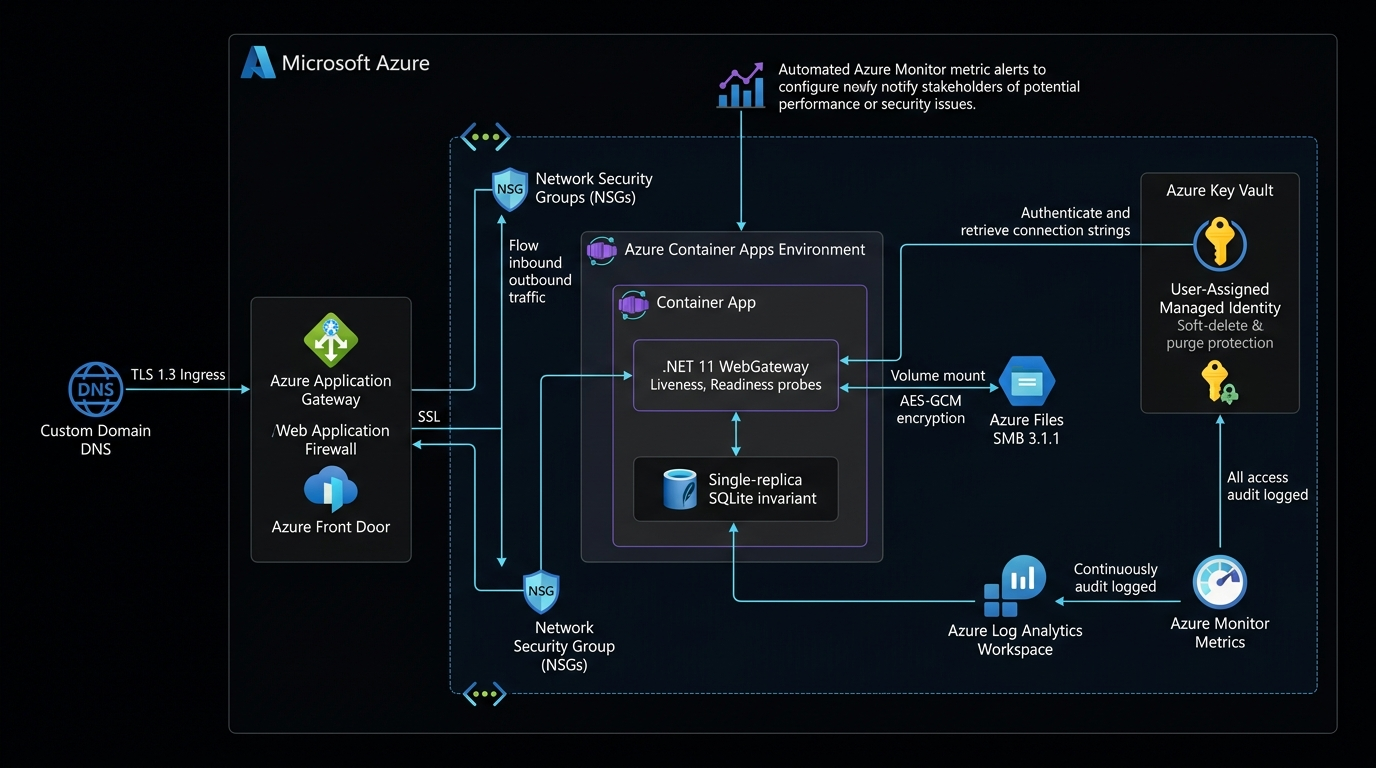
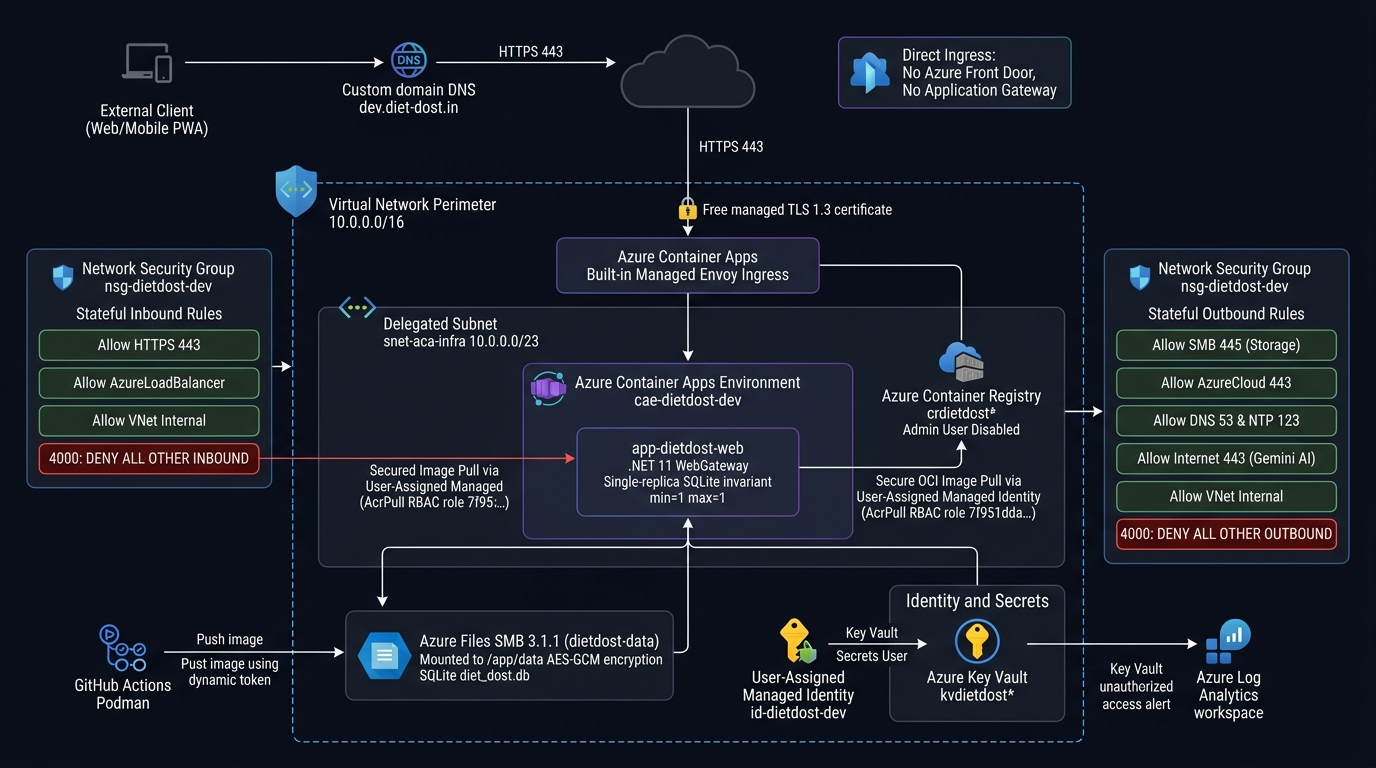
feat(infra): add zero-trust NSG outbound deny rules, clarify direct ACA ingress, and modernize pre-deployment setup

Changed region(s): [[0.0, 0.0312, 1.0, 0.9688], [0.8438, 0.2188, 0.9375, 0.25], [0.6875, 0.375, 0.7188, 0.4062]]

diff --git a/docs/adr/architecture/ADR-20261011-090-zero-trust-nsg-outbound-rules-acr-pull-and-ingress-architecture.md b/docs/adr/architecture/ADR-20261011-090-zero-trust-nsg-outbound-rules-acr-pull-and-ingress-architecture.md
@@ -1,0 +1,103 @@
+<!--
+  Copyright (c) 2026 diet-dost and/or its contributors.
+  Licensed under the "GNU Affero General Public License v3.0 only" and
+  the "Server Side Public License, v 1"; you may not use this file except
+  in compliance with, at your election, the "GNU Affero General Public
+  License v3.0 only" or the "Server Side Public License, v 1".
+-->
+
+# ADR-20261011-090: Azure Zero-Trust NSG Outbound Rules, Passwordless ACR Image Pull, and Direct ACA Ingress Architecture
+
+- **Status**: Accepted
+- **Date**: 2026-10-11
+- **Domain**: Architecture & Infrastructure Security
+- **Author**: Diet-Dost Solution Architecture Team
+- **Decision Makers**: `@nikunjbanker` (Sole Authority)
+- **Consulted**: Application, Infrastructure, and DevSecOps Teams
+- **Informed**: All Contributors, Autonomous AI Agents
+
+---
+
+## 1. Context and Problem Statement
+
+During an architecture and visual artifact audit of the Diet-Dost Azure cloud perimeter ([`docs/architecture/diagrams/azure_zero_trust_infra_architecture.jpg`](file:///c:/Users/nikunj.banker/source/repos/diet-dost/docs/architecture/diagrams/azure_zero_trust_infra_architecture.jpg) and [`infra/infra.bicep`](file:///c:/Users/nikunj.banker/source/repos/diet-dost/infra/infra.bicep)), several critical architectural clarifications and security hardening requirements were identified:
+
+1. **Permissive Outbound Fallthrough Risk in NSG**:
+   - The Network Security Group (`nsg-dietdost-dev`) defined explicit allow rules (priority 100-140) for Storage SMB (445), AzureCloud HTTPS (443), DNS (53), NTP (123), and Internet HTTPS (443), but **lacked an explicit catch-all `Deny` rule for outbound traffic**.
+   - In Azure NSG architecture, unlisted outbound traffic falls through to the Azure default rule `AllowInternetOutBound` (priority 65001), which permits all egress traffic across any arbitrary port (e.g. SSH 22, Telnet 23, SMTP 25, IRC 6667, reverse shells). This violated strict Zero-Trust defense-in-depth principles.
+2. **Architectural Hallucination in Visual Diagram (Front Door & Application Gateway)**:
+   - The previous visual diagram displayed Azure Front Door and Azure Application Gateway.
+   - In reality, Diet-Dost does **not** provision or utilize Azure Front Door or Application Gateway. External HTTPS traffic routes directly to the Azure Container Apps (ACA) built-in Envoy reverse proxy layer with free Azure Managed TLS 1.3 certificates terminating at the ACA boundary.
+3. **Ambiguity in Container Image Delivery Mechanics**:
+   - The image pull relationship between Azure Container Registry (ACR) and the Container App was not visually clear in the diagram, obscuring how the workload authenticates to ACR without admin credentials.
+4. **Pre-Deployment Script & Workflow Secret Alignment**:
+   - `scripts/setup-azure-pre-deployment.ps1` was setting `SUPER_ADMIN_EMAIL` and `REQUIRE_MOBILE_VERIFICATION` as plaintext repository variables (`vars`), whereas `.github/workflows/azure-app-deploy.yml` Step 10b strictly expects encrypted secrets (`secrets.`) per [ADR-077](file:///c:/Users/nikunj.banker/source/repos/diet-dost/docs/adr/security/ADR-20261010-077-secret-only-governance-for-superadmin-email-and-mobile-verification.md). This would have caused the deployed container to fail startup validation in production mode.
+   - Additionally, `azure-app-deploy.yml` Step 4c attempted to run ESLint with the obsolete `.eslintrc.js` configuration file.
+
+---
+
+## 2. Decision and Implementation
+
+### 2.1 Explicit Zero-Trust Catch-All Deny Rules in Bicep (`infra/infra.bicep`)
+Hardened the NSG configuration in [`infra/infra.bicep`](file:///c:/Users/nikunj.banker/source/repos/diet-dost/infra/infra.bicep) by adding explicit high-priority deny rules and VNet internal communication rules:
+- **Inbound Security Rules**:
+  - `100: Allow-HTTPS-Inbound` (TCP 443 from `*`)
+  - `110: Allow-AzureLoadBalancer-Inbound` (Health probes from `AzureLoadBalancer`)
+  - `120: Allow-VNet-Internal-Inbound` (Intra-VNet cluster communication within `VirtualNetwork`)
+  - **`4000: Deny-All-Other-Inbound`** (Explicit catch-all deny rule dropping all unauthorized inbound traffic)
+- **Outbound Security Rules**:
+  - `100: Allow-Storage-SMB-Outbound` (TCP 445 to `Storage` service tag for persistent SQLite mount)
+  - `110: Allow-AzureCloud-HTTPS-Outbound` (TCP 443 to `AzureCloud` service tag for Key Vault, ACR, Entra ID, Log Analytics)
+  - `120: Allow-DNS-Outbound` (Port 53 for DNS resolution)
+  - `130: Allow-NTP-Outbound` (UDP 123 for time synchronization)
+  - `140: Allow-Internet-HTTPS-Outbound` (TCP 443 to `Internet` for Google AI Gemini API)
+  - `150: Allow-VNet-Internal-Outbound` (Intra-VNet cluster communication within `VirtualNetwork`)
+  - **`4000: Deny-All-Other-Outbound`** (Explicit catch-all deny rule overriding Azure's permissive default `AllowInternetOutBound` 65001)
+
+### 2.2 Direct ACA Managed Envoy Ingress Architecture
+Codified the zero-intermediate-hop ingress architecture:
+- External traffic from `dev.diet-dost.in` routes directly via DNS (CNAME + TXT) to the ACA Managed Environment's built-in Envoy proxy.
+- **Zero Front Door & Zero Application Gateway**: Eliminates unnecessary cloud cost (~$18-35/month) and network hops while providing free managed TLS 1.3 certificates directly through ACA.
+- Configurable IP security restrictions are enforced directly at the ACA ingress level via `ipSecurityRestrictions` in [`infra/app.bicep`](file:///c:/Users/nikunj.banker/source/repos/diet-dost/infra/app.bicep).
+
+### 2.3 Passwordless ACR OCI Image Pull Governance
+Documented and validated the passwordless image delivery pipeline:
+- **Registry Hardening**: Azure Container Registry (`crdietdost*`) runs with `adminUserEnabled: false` (zero static admin passwords).
+- **Managed Identity Authorization**: A User-Assigned Managed Identity (`id-dietdost-dev`) is assigned the Azure RBAC built-in role **`AcrPull`** (`7f951dda-4ed3-4680-a7ca-43fe172d538d`) scoped directly to the ACR instance.
+- **Platform Image Pull**: When deploying or scaling revisions, Azure Container Apps uses the Managed Identity OAuth token to pull OCI container images over HTTPS (port 443, permitted by `Allow-AzureCloud-HTTPS-Outbound`).
+- **CI/CD Push**: GitHub Actions builds the image using Podman 5.7.0 and logs in via ephemeral OAuth tokens (`az acr login --expose-token`).
+
+### 2.4 Pre-Deployment Automation & Workflow Alignment
+1. **[`scripts/setup-azure-pre-deployment.ps1`](file:///c:/Users/nikunj.banker/source/repos/diet-dost/scripts/setup-azure-pre-deployment.ps1)**:
+   - Removed `SUPER_ADMIN_EMAIL` and `REQUIRE_MOBILE_VERIFICATION` from plaintext GitHub variables (`vars`).
+   - Moved them to encrypted GitHub Secrets (`secrets.SUPER_ADMIN_EMAIL`, `secrets.REQUIRE_MOBILE_VERIFICATION`) per ADR-077.
+   - Added automatic cleanup of legacy plaintext variables (`gh variable delete`).
+   - Added dynamic Git branch resolution (`git branch --show-current`, fallback `main`).
+   - Added support for `AZURE_OPENAI_API_KEY`.
+2. **[`azure-app-deploy.yml`](file:///c:/Users/nikunj.banker/source/repos/diet-dost/.github/workflows/azure-app-deploy.yml)**:
+   - Modernized Step 4c to ESLint 9+ flat configuration (`eslint@9.20.0` and `npx eslint .`).
+   - Upgraded Gitleaks to `v8.30.1` in both `azure-app-deploy.yml` and `azure-infra-deploy.yml`.
+
+### 2.5 Visual Artifact & Mermaid Synchronization
+- Regenerated high-resolution architecture diagram [`docs/architecture/diagrams/azure_zero_trust_infra_architecture.jpg`](file:///c:/Users/nikunj.banker/source/repos/diet-dost/docs/architecture/diagrams/azure_zero_trust_infra_architecture.jpg) with accurate direct ACA ingress, explicit NSG Inbound/Outbound Zero-Trust panels, ACR AcrPull image pull flow, and zero Front Door / Application Gateway components.
+- Synchronized canonical Mermaid source [`docs/architecture/diagrams/azure_zero_trust_infra_architecture.mermaid`](file:///c:/Users/nikunj.banker/source/repos/diet-dost/docs/architecture/diagrams/azure_zero_trust_infra_architecture.mermaid).
+- Validated 6/6 canonical architecture diagrams with `python3 scripts/sync-architecture-diagrams.py`.
+
+---
+
+## 3. Consequences
+
+### Positive
+- **True Zero-Trust Egress**: Outbound connections on non-authorized ports (e.g. port 22, port 80, arbitrary reverse shells) are dropped deterministically by rule 4000.
+- **Zero Cost Ingress Overhead**: Confirmed elimination of unnecessary Azure Front Door and Application Gateway services, saving ~$25-40/month.
+- **Fail-Safe Startup**: Pre-deployment script now sets `SUPER_ADMIN_EMAIL` in Key Vault via GitHub Secrets, ensuring container startup validation in production mode passes without `InvalidOperationException`.
+- **Zero Documentation Drift**: Mermaid source, high-res diagram, SDD documentation, and agent skills are 100% aligned with Bicep and runtime reality.
+
+---
+
+## 4. Verification Evidence
+
+1. `az bicep build --file infra/infra.bicep`: Exited with code 0 (valid compilation).
+2. `pwsh -File scripts/setup-azure-pre-deployment.ps1 -DryRun`: Verified staging of `SUPER_ADMIN_EMAIL` and `REQUIRE_MOBILE_VERIFICATION` as encrypted secrets.
+3. `python3 scripts/sync-architecture-diagrams.py`: Verified 6/6 diagrams passing semantic and syntax validation.
+4. `dotnet test`: 242/242 tests passing with 0 warnings and 0 errors.

diff --git a/docs/sdd/05_devops_and_infrastructure.md b/docs/sdd/05_devops_and_infrastructure.md
@@ -327,15 +327,18 @@ graph TD
 - **Rule Set**:
   - **Inbound**:
     - `Allow-HTTPS` (Port 443) from `Internet` to `VirtualNetwork` (satisfies `CKV_AZURE_160`: HTTP port 80 restricted).
-    - `Allow-Azure-Load-Balancer` from `AzureLoadBalancer` to `VirtualNetwork`.
-    - `Deny-All-Inbound` (implicit default).
+    - `Allow-HTTPS-Inbound` (Priority 100, Port 443) from `*` to `VirtualNetwork`.
+    - `Allow-AzureLoadBalancer-Inbound` (Priority 110) from `AzureLoadBalancer` health probes.
+    - `Allow-VNet-Internal-Inbound` (Priority 120) between cluster pods and control plane.
+    - `Deny-All-Other-Inbound` (Priority 4000, Explicit Catch-All Deny).
   - **Outbound**:
-    - `Allow-Storage-SMB` (Port 445) restricted strictly to `Storage` service tag.
-    - `Allow-AzureCloud-HTTPS` (Port 443) restricted to `AzureCloud` service tag (Key Vault, ACR, OTLP).
-    - `Allow-AI-APIs-HTTPS` (Port 443) outbound to `Internet` for Gemini 2.5 Flash / Flash Lite REST calls.
-    - `Allow-DNS` (Port 53) outbound for core name resolution.
-    - `Allow-NTP` (Port 123) outbound for clock synchronization.
-    - `Deny-All-Outbound` (implicit default).
+    - `Allow-Storage-SMB-Outbound` (Priority 100, Port 445) restricted strictly to `Storage` service tag for persistent SQLite mount.
+    - `Allow-AzureCloud-HTTPS-Outbound` (Priority 110, Port 443) restricted to `AzureCloud` service tag (Key Vault, ACR image pulls, Entra ID, Log Analytics).
+    - `Allow-DNS-Outbound` (Priority 120, Port 53) for core name resolution.
+    - `Allow-NTP-Outbound` (Priority 130, Port 123) for clock synchronization.
+    - `Allow-Internet-HTTPS-Outbound` (Priority 140, Port 443) outbound to `Internet` for Google AI Gemini API REST calls.
+    - `Allow-VNet-Internal-Outbound` (Priority 150) for intra-VNet cluster communication.
+    - `Deny-All-Other-Outbound` (Priority 4000, Explicit Catch-All Deny to override Azure default AllowInternetOutBound).
 
 ### 8.2 Azure Files SMB 3.1.1 Cryptographic Channel Hardening
 - **Protocol Encryption**: Enforces SMB 3.1.1 wire encryption with negotiated ciphers `AES-128-GCM` and `AES-256-GCM` across `fileServices` in `infra/infra.bicep`.
@@ -346,14 +349,18 @@ graph TD
 - **Audit Logging**: Configured `Microsoft.Insights/diagnosticSettings` (`diag-kv-dev`) streaming `AuditEvent` categories and all metrics directly into the existing Log Analytics Workspace (`log-dietdost-dev`) within the free 5 GB/month ingestion tier.
 - **Automated Intrusion Alerting**: Deployed `Microsoft.Insights/metricAlerts` (`alert-kv-unauthorized-dev`) monitoring the Key Vault Service Api Hit metric with dimensions `StatusCode = 401, 403`. Fires automatically if unauthorized attempts exceed 5 in a 5-minute window, consuming 0 additional cost (within Azure's first 10 free platform metric alerts).
 
-### 8.4 Container App Ingress Perimeter Hardening
+### 8.4 Direct ACA Ingress & ACR Image Pull Delivery Architecture
+- **Direct ACA Managed Envoy Ingress**: External traffic from `dev.diet-dost.in` routes directly to the ACA Managed Environment's built-in Envoy proxy. Zero intermediate hops—**neither Azure Front Door nor Azure Application Gateway is provisioned or utilized**, eliminating unnecessary cost and latency. Free Azure Managed TLS 1.3 certificates terminate directly at the ACA Envoy layer.
+- **Passwordless ACR Image Pull Mechanics**: Azure Container Registry (`crdietdost*`) runs with `adminUserEnabled: false` (zero static passwords). The Container App (`app-dietdost-web`) pulls images securely via its assigned User-Assigned Managed Identity (`id-dietdost-dev`) which possesses the built-in `AcrPull` role (`7f951dda-4ed3-4680-a7ca-43fe172d538d`) scoped directly to the registry. CI/CD pushes images using ephemeral tokens generated via `az acr login --expose-token`.
 - **IP Security Restrictions**: Added configurable `ipSecurityRestrictions` array to `infra/app.bicep`. Allows operators to enforce IP allowlisting/denylisting on the external ingress controller at 0 cost.
 
 ### 8.5 Architectural Visual Artifacts
 The full architectural blueprint is codified in the following repository visual artifacts:
 - **Mermaid Source Diagram**: [`docs/architecture/diagrams/azure_zero_trust_infra_architecture.mermaid`](file:///c:/Users/nikunj.banker/source/repos/diet-dost/docs/architecture/diagrams/azure_zero_trust_infra_architecture.mermaid)
 - **High-Resolution Architecture Diagram**: [`docs/architecture/diagrams/azure_zero_trust_infra_architecture.jpg`](file:///c:/Users/nikunj.banker/source/repos/diet-dost/docs/architecture/diagrams/azure_zero_trust_infra_architecture.jpg)
-- **Architectural Decision Record**: [`docs/adr/security/ADR-20261010-088-azure-zero-trust-network-security-group-smb311-and-diagnostic-hardening.md`](file:///c:/Users/nikunj.banker/source/repos/diet-dost/docs/adr/security/ADR-20261010-088-azure-zero-trust-network-security-group-smb311-and-diagnostic-hardening.md)
+- **Architectural Decision Records**:
+  - [`docs/adr/security/ADR-20261010-088-azure-zero-trust-network-security-group-smb311-and-diagnostic-hardening.md`](file:///c:/Users/nikunj.banker/source/repos/diet-dost/docs/adr/security/ADR-20261010-088-azure-zero-trust-network-security-group-smb311-and-diagnostic-hardening.md)
+  - [`docs/adr/architecture/ADR-20261011-090-zero-trust-nsg-outbound-rules-acr-pull-and-ingress-architecture.md`](file:///c:/Users/nikunj.banker/source/repos/diet-dost/docs/adr/architecture/ADR-20261011-090-zero-trust-nsg-outbound-rules-acr-pull-and-ingress-architecture.md)
 
 
 

diff --git a/docs/adr/README.md b/docs/adr/README.md
@@ -9,7 +9,7 @@
 # Architectural Decision Records (ADRs) - Diet-Dost
 > **Classification**: Authoritative Architectural Decision Record (ADR) Registry & Standards  
 > **Pattern**: Subsystem / Domain-Driven Atomic Fragment Pattern (Zero Merge Conflicts & Zero Baseline System Tokens)  
-> **Total Decisions**: 52 Active Records Across 5 Domain Hierarchies  
+> **Total Decisions**: 53 Active Records Across 5 Domain Hierarchies  
 > **Machine-Readable Registry**: [`docs/adr/index.json`](file:///c:/Users/nikunj.banker/source/repos/diet-dost/docs/adr/index.json)  
 > **Governance**: Dual AGPLv3 / SSPL v1, DPDPA 2023, ICMR-NIN 2024 Clinical Standards  
 
@@ -31,7 +31,7 @@ To ensure high maintainability, rapid discoverability, and zero merge conflicts,
 
 | Subsystem Domain | Description | Total Decisions | Directory |
 | :--- | :--- | :--- | :--- |
-| **🏛 Architecture & Domain Logic** | Clean Architecture, CQRS, Database persistence, Options Pattern, and BFF facade specifications. | **15** | [`docs/adr/architecture/`](file:///c:/Users/nikunj.banker/source/repos/diet-dost/docs/adr/architecture/) |
+| **🏛 Architecture & Domain Logic** | Clean Architecture, CQRS, Database persistence, Options Pattern, and BFF facade specifications. | **16** | [`docs/adr/architecture/`](file:///c:/Users/nikunj.banker/source/repos/diet-dost/docs/adr/architecture/) |
 | **🛡 Security & Identity** | Authentication, authorization, RBAC, Key Vault secrets, OWASP LLM defense, and code scanning gates. | **16** | [`docs/adr/security/`](file:///c:/Users/nikunj.banker/source/repos/diet-dost/docs/adr/security/) |
 | **🚀 DevOps & Cloud Infrastructure** | Azure Container Apps, .NET Aspire deployment, SQLite SMB persistence, and GitHub OIDC CI/CD pipelines. | **4** | [`docs/adr/devops/`](file:///c:/Users/nikunj.banker/source/repos/diet-dost/docs/adr/devops/) |
 | **🎨 Presentation & UI/UX** | Client hydration, responsive mobile/tablet layout, touch ergonomics, and modal orchestration. | **4** | [`docs/adr/presentation/`](file:///c:/Users/nikunj.banker/source/repos/diet-dost/docs/adr/presentation/) |
@@ -61,6 +61,7 @@ To ensure high maintainability, rapid discoverability, and zero merge conflicts,
 | **ADR-076** | Codification of Configuration, Options Pattern & Secret Management Architecture SDD | `[ARCHITECTURE]` | `ACCEPTED` | [`ADR-20261009-076-configuration-architecture-sdd-and-process-boundary-specification.md`](file:///c:/Users/nikunj.banker/source/repos/diet-dost/docs/adr/architecture/ADR-20261009-076-configuration-architecture-sdd-and-process-boundary-specification.md) |
 | **ADR-084** | Multi-Agent Readiness (Antigravity, Copilot, Claude), Native Health Probes, and BFF Contract Testing | `[ARCHITECTURE]` | `ACCEPTED` | [`ADR-20261010-084-multi-agent-readiness-health-probes-and-bff-contract-snapshot-tests.md`](file:///c:/Users/nikunj.banker/source/repos/diet-dost/docs/adr/architecture/ADR-20261010-084-multi-agent-readiness-health-probes-and-bff-contract-snapshot-tests.md) |
 | **ADR-089** | Automated Architecture Diagram Synchronization, Semantic Solution Alignment, and Agentic Governance | `[ARCHITECTURE]` | `ACCEPTED` | [`ADR-20261010-089-automated-architecture-diagram-synchronization-and-agentic-governance.md`](file:///c:/Users/nikunj.banker/source/repos/diet-dost/docs/adr/architecture/ADR-20261010-089-automated-architecture-diagram-synchronization-and-agentic-governance.md) |
+| **ADR-090** | Azure Zero-Trust NSG Outbound Rules, Passwordless ACR Image Pull, and Direct ACA Ingress Architecture | `[ARCHITECTURE]` | `ACCEPTED` | [`ADR-20261011-090-zero-trust-nsg-outbound-rules-acr-pull-and-ingress-architecture.md`](file:///c:/Users/nikunj.banker/source/repos/diet-dost/docs/adr/architecture/ADR-20261011-090-zero-trust-nsg-outbound-rules-acr-pull-and-ingress-architecture.md) |
 
 ### 🛡 Security & Identity (`docs/adr/security/`)
 > *Authentication, authorization, RBAC, Key Vault secrets, OWASP LLM defense, and code scanning gates.*

diff --git a/.agents/skills/diet-dost-azure-deployment/SKILL.md b/.agents/skills/diet-dost-azure-deployment/SKILL.md
@@ -112,18 +112,29 @@ pwsh -File scripts/setup-azure-pre-deployment.ps1
 ### 3.1 Architecture Overview
 ```mermaid
 graph TD
-    User([End User / Mobile Browser]) -->|HTTPS / Port 443| Domain[Custom Domain: dev.diet-dost.in]
-    Domain -->|CNAME + TXT Verification| ACA_Ingress[ACA Environment Ingress<br/>Free Managed TLS 1.3 Certificate]
+    User([End User / Mobile Browser]) -->|Direct HTTPS / Port 443| Domain[Custom Domain: dev.diet-dost.in<br/>Direct Ingress: No Front Door / No App Gateway]
+    Domain -->|CNAME + TXT Verification| ACA_Ingress[ACA Managed Ingress (Envoy)<br/>Free Managed TLS 1.3 Certificate]
     
-    subgraph ACA_Perimeter ["Azure Container Apps Environment (cae-dietdost-prod)"]
-        ACA_Ingress --> AppContainer[Diet-Dost WebGateway Container<br/>.NET 11 Runtime / Port 8080<br/>Replicas: min=1, max=1]
-        
-        AppContainer -.->|Managed Identity| KV[Azure Key Vault<br/>Gemini & App Secrets]
-        AppContainer -.->|OTLP Telemetry| AppInsights[Azure Log Analytics / Monitor]
+    subgraph VNet_Perimeter ["VNet Perimeter & Zero-Trust NSG (nsg-dietdost-dev)"]
+        subgraph NSG_Rules ["NSG Stateful Firewall"]
+            InRules["Inbound: 100 HTTPS, 110 AzureLoadBalancer, 120 VNet Internal, 4000 DENY ALL"]
+            OutRules["Outbound: 100 SMB 445, 110 AzureCloud 443, 120 DNS 53, 130 NTP 123, 140 Gemini AI 443, 150 VNet Internal, 4000 DENY ALL"]
+        end
+
+        subgraph ACA_Perimeter ["Azure Container Apps Environment (cae-dietdost-dev)"]
+            ACA_Ingress --> AppContainer[Diet-Dost WebGateway Container<br/>.NET 11 Runtime / Port 8080<br/>Replicas: min=1, max=1]
+            
+            AppContainer -.->|Assigned Managed Identity| MI[User-Assigned Identity<br/>id-dietdost-dev]
+            MI -.->|Role: AcrPull (7f951dda...)| ACR[Azure Container Registry<br/>crdietdost* (Admin Disabled)]
+            ACR -->|Secure OCI Image Pull via Port 443| AppContainer
+            MI -.->|Role: Key Vault Secrets User| KV[Azure Key Vault<br/>kvdietdost*]
+            AppContainer -.->|Secret Resolution| KV
+            AppContainer -.->|OTLP Telemetry| AppInsights[Azure Log Analytics / Monitor]
+        end
     end
     
-    subgraph Azure_Storage ["Azure Storage Account (stgdietdostprod)"]
-        AppContainer -->|Volume Mount: /app/data| FileShare[Azure Files SMB Share<br/>sqlite-data-share<br/>- diet_dost.db<br/>- uploads/]
+    subgraph Azure_Storage ["Azure Storage Account (stgdietdost*)"]
+        AppContainer -->|Volume Mount: /app/data (AES-GCM)| FileShare[Azure Files SMB Share<br/>dietdost-data<br/>- diet_dost.db<br/>- uploads/]
     end
 ```
 

diff --git a/docs/AZURE_PRE_DEPLOYMENT_POWERSHELL_GUIDE.md b/docs/AZURE_PRE_DEPLOYMENT_POWERSHELL_GUIDE.md
@@ -201,13 +201,11 @@ Execute these steps in PowerShell to configure required environment variables an
 # 1. Verify GitHub CLI Authentication
 gh auth status
 
-# 2. Set / Confirm GitHub Environment Variables
+# 2. Set / Confirm GitHub Environment Variables (Strictly Non-Sensitive per ADR-077)
 Write-Host "Configuring GitHub Environment Variables for '$EnvironmentName'..." -ForegroundColor Cyan
 gh variable set AZURE_CLIENT_ID --repo $GitHubRepo --env $EnvironmentName --body $AppRegistrationId
 gh variable set AZURE_SUBSCRIPTION_ID --repo $GitHubRepo --env $EnvironmentName --body $SubscriptionId
 gh variable set AZURE_TENANT_ID --repo $GitHubRepo --env $EnvironmentName --body $TenantId
-gh variable set SUPER_ADMIN_EMAIL --repo $GitHubRepo --env $EnvironmentName --body "superadmin@dietdost.app"
-gh variable set REQUIRE_MOBILE_VERIFICATION --repo $GitHubRepo --env $EnvironmentName --body "false"
 
 # 3. Generate Cryptographically Secure 256-bit (48-byte) JWT Signing Key
 $bytes = New-Object byte[] 48
@@ -219,7 +217,12 @@ Write-Host "Generated 256-bit JWT Key: $SecureJwtKey" -ForegroundColor Yellow
 gh secret set JWT_KEY --repo $GitHubRepo --env $EnvironmentName --body $SecureJwtKey
 Write-Host "✅ JWT_KEY successfully saved in GitHub environment '$EnvironmentName'!" -ForegroundColor Green
 
-# 5. Save GEMINI_API_KEY Secret to GitHub Environment
+# 5. Save Administrative Identity Secrets (Strictly Secret-Governed per ADR-077)
+gh secret set SUPER_ADMIN_EMAIL --repo $GitHubRepo --env $EnvironmentName --body "superadmin@dietdost.app"
+gh secret set REQUIRE_MOBILE_VERIFICATION --repo $GitHubRepo --env $EnvironmentName --body "false"
+Write-Host "✅ Administrative secrets successfully saved in GitHub environment '$EnvironmentName'!" -ForegroundColor Green
+
+# 6. Save GEMINI_API_KEY Secret to GitHub Environment
 # Replace with your actual Google Gemini API key:
 $MyGeminiApiKey = "YOUR_ACTUAL_GEMINI_API_KEY_HERE"
 
